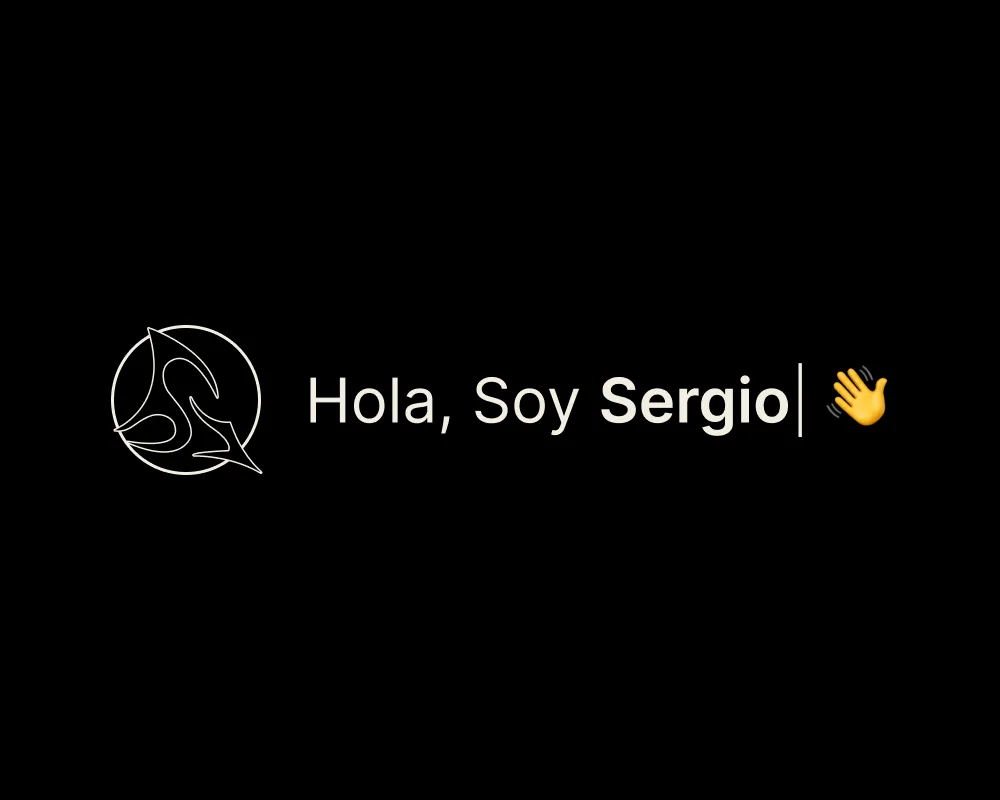
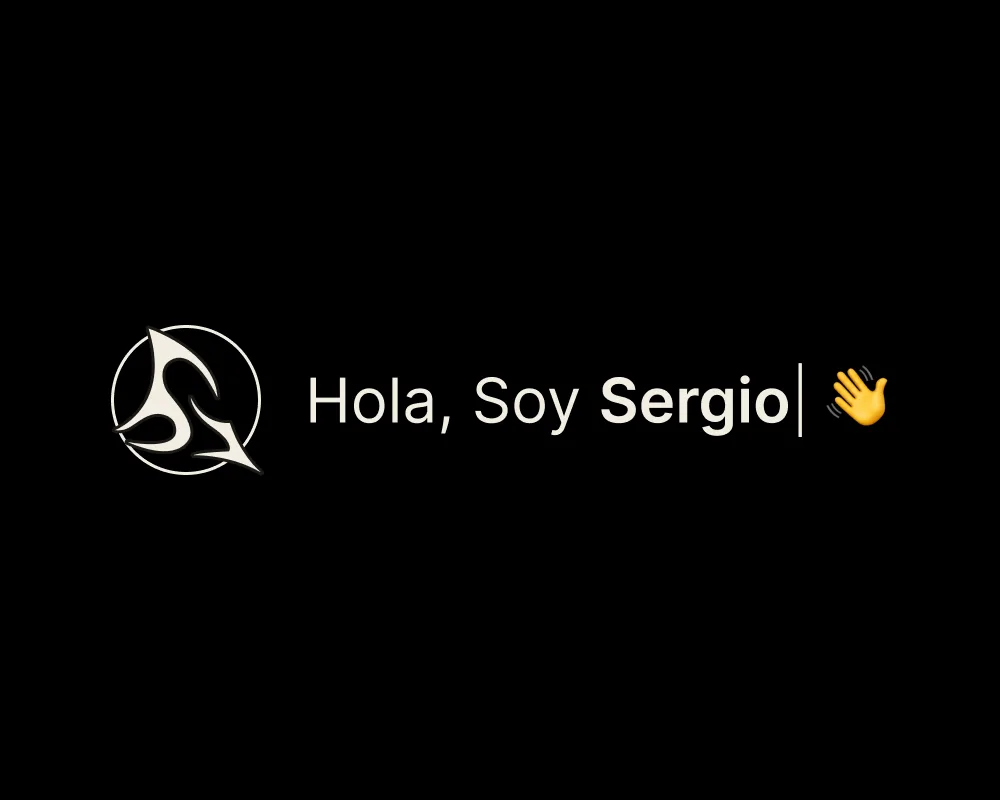
Sistema: las fichas de cada muestra, al hueso
Diecisiete textos que se habian ido alargando hasta ser parrafos. Una ficha
tiene que decir de que esta hecha la pieza y poco mas: lo que necesitaba
explicacion larga ya vive en los comentarios del codigo. Las tarjetas dejan de
ser tres cuartos de texto y un cuarto de muestra.

Y la cover del portfolio, vuelta a convertir.

Changed region(s): [[0.124, 0.4062, 0.279, 0.5938]]

diff --git a/src/components/proyectos/sistema/Organismos.tsx b/src/components/proyectos/sistema/Organismos.tsx
@@ -51,8 +51,8 @@ export default function Organismos() {
         <Pieza
           nombre="Cabecera de proyecto"
           nombreEn="Project header"
-          de="Caja con el tinte de la categoría + cápsula de volver + ficha + titular con capitular + entradilla + hecho con. Es la pieza que abre las catorce páginas de proyecto, y va con sus clases de verdad. Los discos de al lado cambian la categoría: lo que se mueve con ella es el tinte de la caja y la cápsula de volver, nada más."
-          deEn="Tinted box + back capsule + meta + drop-cap title + lead + made-with. It opens all fourteen project pages, and it runs on its real classes. The discs beside it switch category: what moves with it is the box tint and the back capsule, nothing else."
+          de="Caja tintada + cápsula + ficha + titular + entradilla + hecho con. Los discos cambian de categoría."
+          deEn="Tinted box + capsule + meta + title + lead + made-with. The discs switch category."
           ancha
         >
           <div className="sd-hero-fila">
@@ -99,8 +99,8 @@ export default function Organismos() {
         <Pieza
           nombre="Tarjeta de proyecto"
           nombreEn="Project card"
-          de="La tarjeta de verdad, la que sale al elegir una disciplina en la home, con su abanico y su empuje al pasar por encima. Es cuadrada contando la banda, así que la portada es siempre 5:4, y el filo va de degradado y no de color plano porque en la parrilla hay varias juntas y el aro es lo que las distingue de un vistazo. Aquí se enseña reducida, pero es el mismo componente."
-          deEn="The real card, the one that appears when you pick a discipline on the home, with its fan and its push on hover. It is square counting the band, so the cover is always 5:4, and its border is a gradient rather than a flat colour because in the grid there are several together and the ring is what tells them apart. Shown scaled down here, but it is the same component."
+          de="Cuadrada contando la banda, así la portada es siempre 5:4. El aro va de degradado, que es lo que distingue una categoría de otra."
+          deEn="Square counting the band, so the cover is always 5:4. The ring is a gradient, which is what tells one category from another."
           ancha
         >
           <div className="sd-abanico">
@@ -110,8 +110,8 @@ export default function Organismos() {
         <Pieza
           nombre="Banner de destacados"
           nombreEn="Featured banner"
-          de="Otra pieza, no la tarjeta: esto solo aparece en «Proyectos recomendados», al pie de la home y de cada página de proyecto. Es apaisado, con la portada de alto fijo, el filo del color de su categoría y la banda con su degradado debajo. Lo que cambia con el número es el reparto, y por eso se elige aquí."
-          deEn="A different piece, not the card: this only appears under «Featured projects», at the foot of the home and of every project page. It is landscape, with a fixed-height cover, a border in its category colour and the gradient band below. What changes with the count is how they share the width, which is why it is picked here."
+          de="Apaisado, solo para «Proyectos recomendados». Lo que cambia con el número es el reparto."
+          deEn="Landscape, only for «Featured projects». What changes with the count is how they share the width."
           ancha
         >
           <div className="sd-conmutador">
@@ -141,8 +141,8 @@ export default function Organismos() {
         <Pieza
           nombre="Cabecera del sitio"
           nombreEn="Site header"
-          de="Esquema, no la pieza: la de verdad va pegada arriba y aquí se saldría de su marco. Barra con trazo de 1,5 y redondeo solo abajo, porque cuelga del filo de la ventana: saludo con la máquina de escribir a la izquierda, hora y fecha en el centro y las dos pastillas a la derecha."
-          deEn="A schematic, not the piece: the real one sticks to the top and would escape this frame. A 1.5 stroke bar rounded only at the bottom, because it hangs from the window's edge: typewriter greeting on the left, time and date in the middle, the two toggles on the right."
+          de="Esquema. Trazo de 1,5 y redondeo solo abajo, porque cuelga del filo de la ventana."
+          deEn="A schematic. 1.5 stroke, rounded only at the bottom, because it hangs from the window's edge."
           ancha
         >
           <div className="sd-esquema sd-esquema-cabecera">
@@ -161,8 +161,8 @@ export default function Organismos() {
         <Pieza
           nombre="Pie"
           nombreEn="Footer"
-          de="Esquema. La misma barra que la cabecera pero del revés —redondeada solo por arriba— con el aviso legal, los tres iconos sociales y los derechos."
-          deEn="A schematic. The same bar as the header but inverted — rounded only on top — with the legal note, the three social icons and the rights line."
+          de="Esquema. La misma barra del revés, redondeada solo por arriba."
+          deEn="A schematic. The same bar inverted, rounded only on top."
           ancha
         >
           <div className="sd-esquema sd-esquema-pie">
@@ -179,8 +179,8 @@ export default function Organismos() {
         <Pieza
           nombre="Mockup de móvil"
           nombreEn="Phone mockup"
-          de="Dibujado en CSS y no una imagen, así que se ve nítido a cualquier tamaño y pesa cero. Es un solo componente para los tres sitios donde sale: las newsletters de Iberdrola, con una dentro navegable, y los prototipos de las apps de Espacio vacío y El arte del miedo. Cada uno le pasa su ancho, su proporción, el color de la pantalla y el tamaño de la muesca. El ancho manda sobre lo que contiene, porque dentro todo se mide en porcentaje de la pantalla. Aquí, vacío y reducido."
-          deEn="Drawn in CSS, not an image, so it stays sharp at any size and weighs nothing. One component for the three places it appears: the Iberdrola newsletters, with a live one inside, and the prototypes for the Espacio vacío and El arte del miedo apps. Each passes its own width, screen ratio, screen colour and notch size. Its width governs what it contains, since everything inside is measured against the screen width. Shown here empty and scaled down."
+          de="Dibujado en CSS, no una imagen. Uno solo para las newsletters y las dos apps; cada una le pasa su ancho, su proporción y su muesca."
+          deEn="Drawn in CSS, not an image. One for the newsletters and both apps; each passes its own width, ratio and notch."
         >
           <div className="sd-movil">
             <Movil />
@@ -190,8 +190,8 @@ export default function Organismos() {
         <Pieza
           nombre="Caja de cápsulas"
           nombreEn="Capsule box"
-          de="Esquema: la de verdad lleva un motor de física y hay que arrastrarla. Siete cápsulas que caen y se apilan, una zona de soltar marcada con línea de puntos y, arriba a la izquierda, el botón que cambia a la variante de menú."
-          deEn="A schematic: the real one runs a physics engine and has to be dragged. Seven capsules that fall and pile up, a dashed drop zone, and the button top-left that switches to the menu variant."
+          de="Esquema: la de verdad lleva física y se arrastra. Siete cápsulas, una zona de soltar y el botón que la cambia a menú."
+          deEn="A schematic: the real one runs physics and is dragged. Seven capsules, a drop zone and the button that switches it to a menu."
         >
           <div className="sd-esquema sd-esquema-capsulas">
             <span className="sd-capsula" style={{ transform: "rotate(-4deg)" }}>Branding</span>
@@ -204,8 +204,8 @@ export default function Organismos() {
         <Pieza
           nombre="Variante en menú"
           nombreEn="Menu variant"
-          de="La misma caja sin física: una cuadrícula de dos columnas donde cada casilla se pinta entera del color de su categoría al pasar por encima. No es un modo de repuesto, es la puerta para quien no puede arrastrar."
-          deEn="The same box without physics: a two-column grid where each cell fills with its category colour on hover. Not a fallback, but the door for anyone who cannot drag."
+          de="La misma caja sin física. No es un repuesto: es la puerta para quien no puede arrastrar."
+          deEn="The same box without physics. Not a fallback: the door for anyone who cannot drag."
         >
           <div className="sd-esquema sd-esquema-menu">
             <span className="sd-casilla">Branding</span>
@@ -218,8 +218,8 @@ export default function Organismos() {
         <Pieza
           nombre="Menú de paneles"
           nombreEn="Panel menu"
-          de="Tres fichas altas —sobre mí, currículum y contacto— dentro del mismo marco que la caja de cápsulas. La activa se invierte: papel y tinta cambian de sitio."
-          deEn="Three tall tiles — about, CV and contact — inside the same frame as the capsule box. The active one inverts: paper and ink swap."
+          de="Tres fichas altas. La activa invierte papel y tinta."
+          deEn="Three tall tiles. The active one swaps paper and ink."
         >
           <div className="sd-esquema sd-esquema-paneles">
             <span className="sd-ficha"><LangText es="Sobre mí" en="About" /></span>
@@ -231,8 +231,8 @@ export default function Organismos() {
         <Pieza
           nombre="Caja de contacto"
           nombreEn="Contact box"
-          de="Titular con capitular + los dos atajos que se abren al acercarse + tres campos y el botón de enviar. Los campos llevan filo fino y el mismo redondeo que las cajas de papel."
-          deEn="Drop-cap title + the two shortcuts that open on hover + three fields and the send button. Fields use the thin border and the same radius as paper boxes."
+          de="Titular + los dos atajos + tres campos y enviar."
+          deEn="Title + the two shortcuts + three fields and send."
         >
           <div className="sd-esquema sd-esquema-contacto">
             <span className="sd-esquema-fila">

diff --git a/src/components/proyectos/sistema/Moleculas.tsx b/src/components/proyectos/sistema/Moleculas.tsx
@@ -20,8 +20,8 @@ export default function Moleculas() {
       <Pieza
         nombre="Cápsula de volver"
         nombreEn="Back capsule"
-        de="Pastilla + flecha + tono de categoría. Al acercarse se rellena del degradado de su disciplina."
-        deEn="Pill + chevron + category hue. On hover it fills with its discipline's gradient."
+        de="Pastilla + flecha + tono de su categoría."
+        deEn="Pill + chevron + its category hue."
       >
         <BackCapsule category="uiux" muestra />
       </Pieza>
@@ -29,8 +29,8 @@ export default function Moleculas() {
       <Pieza
         nombre="Rótulo de apartado"
         nombreEn="Section label"
-        de="Pastilla + línea que cruza el ancho. Abre cada apartado de una página de proyecto."
-        deEn="Pill + a rule across the width. It opens every section of a project page."
+        de="Pastilla + línea a todo el ancho. Abre cada apartado."
+        deEn="Pill + a rule across the width. It opens every section."
       >
         <RotuloSeccion es="Componentes" en="Components" />
       </Pieza>
@@ -38,8 +38,8 @@ export default function Moleculas() {
       <Pieza
         nombre="Titular con capitular"
         nombreEn="Drop-cap title"
-        de="Caligráfica en la primera letra + versales en el resto. Es el único sitio donde aparece la tercera letra."
-        deEn="Script on the first letter + small caps on the rest. The only place the third typeface appears."
+        de="Caligráfica en la primera letra + versales en el resto."
+        deEn="Script on the first letter + small caps on the rest."
       >
         <span className="sd-muestra-titular"><DropcapTitle es="Proyectos" en="Projects" /></span>
       </Pieza>
@@ -47,8 +47,8 @@ export default function Moleculas() {
       <Pieza
         nombre="Hecho con"
         nombreEn="Made with"
-        de="Rótulo + iconos de 24 con trazo de 1,5. En reposo van del gris apagado y al acercarse toman el color de su marca."
-        deEn="Label + 24px icons at 1.5 stroke. Muted at rest, brand-coloured on hover."
+        de="Rótulo + iconos de 24 a trazo 1,5. Toman su color de marca al acercarse."
+        deEn="Label + 24px icons at 1.5 stroke. Brand-coloured on hover."
       >
         <ToolIcons tools={["Figma", "Photoshop", "After Effects"]} />
       </Pieza>
@@ -56,8 +56,8 @@ export default function Moleculas() {
       <Pieza
         nombre="Fila de ficha"
         nombreEn="Meta row"
-        de="Clave en sans + valor en la cursiva. Es lo que llena la ficha de la cabecera de cada proyecto."
-        deEn="Key in sans + value in italic. It fills the meta block of every project header."
+        de="Clave en sans + valor en cursiva."
+        deEn="Key in sans + value in italic."
       >
         <div className="project-meta sd-muestra-meta">
           <div className="project-meta-row">
@@ -74,8 +74,8 @@ export default function Moleculas() {
       <Pieza
         nombre="Caja de papel"
         nombreEn="Paper box"
-        de="Papel opaco + relleno + margen negativo. Impide que la trama del fondo compita con la lectura sin desalinear el texto."
-        deEn="Opaque paper + padding + negative margin. Stops the background pattern competing with reading without pushing the text out of line."
+        de="Papel opaco para que la trama del fondo no compita con la lectura."
+        deEn="Opaque paper so the background pattern does not compete with reading."
         ancha
       >
         <TextoPapel>
@@ -91,8 +91,8 @@ export default function Moleculas() {
       <Pieza
         nombre="Pastillas de la cabecera"
         nombreEn="Header toggles"
-        de="Dibujadas aquí a mano: viven dentro de la cabecera y no existen sueltas. Una pastilla con dos estados —claro y oscuro, español e inglés— donde lo activo es la tinta y lo inactivo el gris apagado."
-        deEn="Drawn by hand here: they live inside the header and do not exist on their own. A pill with two states — light and dark, Spanish and English — where the active one is ink and the inactive one muted grey."
+        de="Dos estados en una pastilla: lo activo va en tinta y lo demás en apagado. Dibujadas."
+        deEn="Two states in one pill: active in ink, the rest muted. Drawn here."
       >
         <div className="sd-muestra-toggles">
           <span className="sd-toggle-tema"><span className="sd-toggle-bola" /></span>
@@ -105,8 +105,8 @@ export default function Moleculas() {
       <Pieza
         nombre="Pestañas"
         nombreEn="Tabs"
-        de="Dibujadas a mano, del menú de Ilustraciones. La activa se une a la caja de abajo quitándole el redondeo de esa esquina: se lee como una carpeta y no como un botón."
-        deEn="Drawn by hand, from the Illustrations menu. The active one joins the box below by dropping that corner's radius: it reads as a folder tab, not a button."
+        de="La activa pierde el redondeo de esa esquina y se une a la caja. Dibujadas."
+        deEn="The active one drops that corner and joins the box. Drawn here."
         ancha
       >
         <div className="sd-muestra-tabs">
